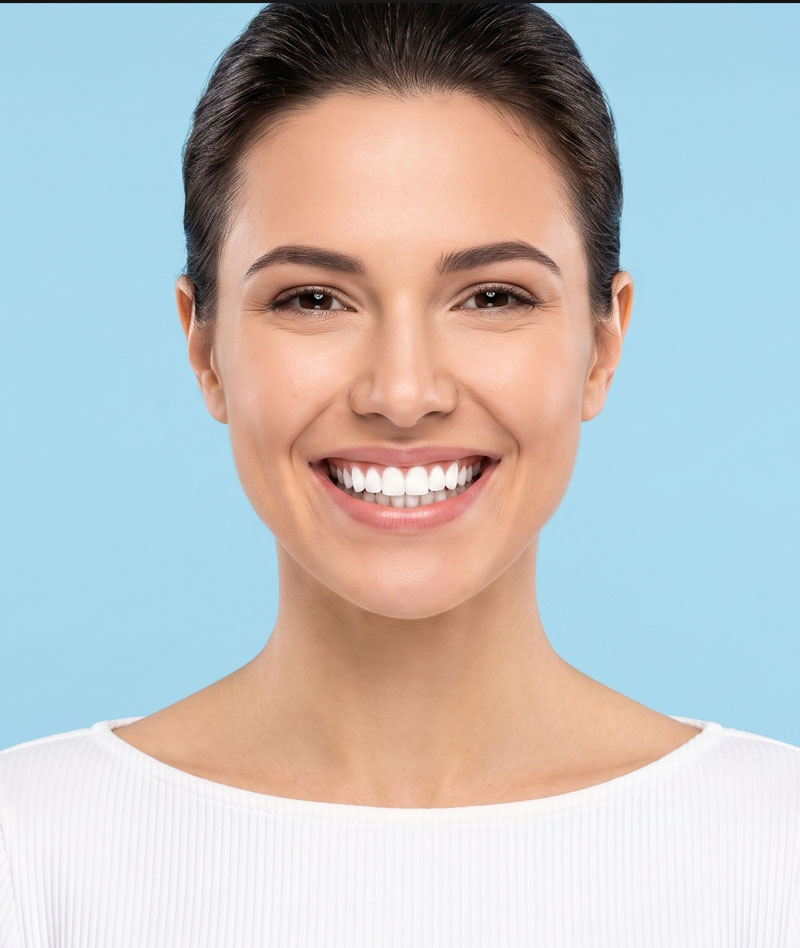
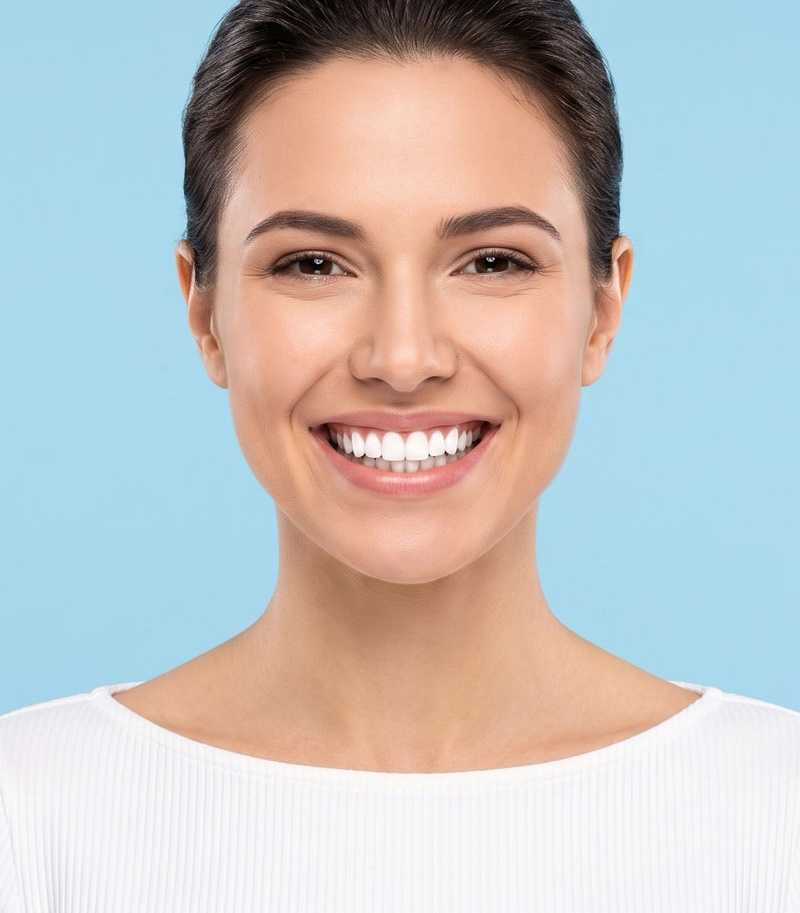
dds

diff --git a/main.js b/main.js
@@ -781,12 +781,20 @@ document.addEventListener('DOMContentLoaded', () => {
         });
         window.addEventListener('hashchange', handleServicesHash);
 
-        // Click listener on header SERVICES link to force grid view even if hash doesn't change
+        // Click listener on SERVICES & FIND YOUR PROCEDURE links to force grid view and smooth scroll
         const servicesNavLinks = document.querySelectorAll('a[href*="#services-section"]');
         servicesNavLinks.forEach(link => {
-            link.addEventListener('click', () => {
+            link.addEventListener('click', (e) => {
                 if (!isGridView && viewAllBtn) {
                     viewAllBtn.click();
+                }
+                const section = document.getElementById('services-section');
+                if (section && (window.location.pathname.endsWith('index.html') || window.location.pathname === '/' || window.location.pathname.endsWith('/'))) {
+                    e.preventDefault();
+                    section.scrollIntoView({ behavior: 'smooth' });
+                    if (window.location.hash !== '#services-section') {
+                        history.pushState(null, null, '#services-section');
+                    }
                 }
             });
         });

diff --git a/index.html b/index.html
@@ -238,7 +238,7 @@
                 <a href="https://wa.me/971509398270?text=Hi%20villannova" target="_blank" class="home-hero-btn-primary"
                     style="background-color: var(--gold); border-color: var(--gold); color: var(--text-dark);">FREE
                     CONSULTATION</a>
-                <a href="about.html" class="home-hero-btn-secondary"
+                <a href="index.html#services-section" class="home-hero-btn-secondary"
                     style="background-color: var(--white); border-color: var(--white); color: var(--navy);">FIND YOUR
                     PROCEDURE</a>
             </div>

diff --git a/Villanova_Gastric_Balloon_Comparison_Blog.md b/Villanova_Gastric_Balloon_Comparison_Blog.md
@@ -1,0 +1,128 @@
+<!-- Antigravity handoff: Use the patient article below as the blog content. The Publishing details section contains editor instructions and SEO metadata, not patient-facing article copy. Preserve source links and the clinical-review status. -->
+
+# Gastric Balloon vs Capsule Balloon in Dubai: Which Is Right for You?
+
+*Patient information blog | Draft for clinical review*
+
+Considering a gastric balloon in Dubai, but unsure whether to choose an endoscopic balloon or a swallowable capsule balloon? The main differences are how the balloon enters and leaves the stomach, how long it stays in place, and the care involved.
+
+A capsule balloon is itself a type of gastric balloon. In this guide, “gastric balloon” refers to the endoscopic option, while “capsule balloon” refers to the swallowable Allurion system. Neither is automatically better for everyone: the choice starts with a medical assessment.
+
+## What is a gastric balloon?
+
+A gastric balloon is a temporary device placed inside the stomach to help you feel full sooner and eat smaller portions. It does not involve removing part of the stomach. Treatment should be combined with dietary changes, activity and ongoing support. [[1]](https://www.mayoclinic.org/tests-procedures/intragastric-balloon/about/pac-20394435)
+
+## How does a capsule balloon work?
+
+The Allurion capsule contains a deflated balloon attached to a thin tube. A healthcare professional supervises placement and filling. Routine placement does not require endoscopy or anaesthesia. After approximately 16 weeks, the balloon is designed to empty and pass through the digestive tract. Occasionally, endoscopic or surgical intervention is necessary. [[2]](https://www.allurion.com/en-ae/allurion-gastric-balloon/how-it-works)
+
+## How does an endoscopic balloon work?
+
+A doctor uses a flexible camera passed through the mouth to place the balloon in the stomach, with sedation or anaesthesia. It is later deflated and removed endoscopically. Treatment duration depends on the device: some balloons are designed for six months, while certain other models permit longer placement, up to 12 months under their applicable instructions. [[3]](https://www.endura.com/us/en/home.html) [[4]](https://www.spatzmedical.com/gastric-balloon/)
+
+Ask which exact model is being offered and when it must be removed. A six-month balloon must not simply be left in for a year. [[3]](https://www.endura.com/us/en/home.html)
+
+## Gastric balloon vs capsule balloon: key differences
+
+| Feature | Endoscopic gastric balloon | Allurion capsule balloon |
+| --- | --- | --- |
+| Placement | Through the mouth using an endoscope | Swallowed as a capsule under clinical supervision |
+| Sedation / anaesthesia | Used for endoscopic procedures | Not needed for routine placement |
+| Time in the stomach | Device-specific; commonly 6 months, with some models up to 12 months | Approximately 16 weeks |
+| Removal | Planned endoscopic removal | Designed to empty and pass naturally; intervention may be needed |
+| Volume adjustment | Only with certain adjustable models | Not adjustable after filling |
+| Follow-up | Medical and nutritional support | Medical and nutritional support |
+
+Device features and treatment limits vary by model and local labelling. Confirm the proposed device with your doctor. [[2]](https://www.allurion.com/en-ae/allurion-gastric-balloon/how-it-works) [[3]](https://www.endura.com/us/en/home.html) [[4]](https://www.spatzmedical.com/gastric-balloon/)
+
+## Which option may be better for you?
+
+If avoiding a planned endoscopy is a priority, ask whether you are eligible for a capsule balloon. You still need medical screening, follow-up and access to care if symptoms develop.
+
+If a longer period with a balloon is being considered, discuss an endoscopic model with an appropriate treatment duration. Some models allow volume adjustment through an additional endoscopic procedure; this feature does not apply to every balloon. [[4]](https://www.spatzmedical.com/gastric-balloon/)
+
+Your doctor should assess your BMI, previous stomach or oesophageal surgery, medical history and ability to attend follow-up. Eligibility differs between devices. Your goals and preferences matter, but they cannot replace clinical suitability. [[1]](https://www.mayoclinic.org/tests-procedures/intragastric-balloon/about/pac-20394435) [[2]](https://www.allurion.com/en-ae/allurion-gastric-balloon/how-it-works)
+
+## What results should you expect?
+
+Weight loss varies. A balloon staying in place for longer does not, by itself, establish that it is the better choice for you. Ask for evidence about the proposed device and a realistic treatment goal. Continued dietary and activity support matters after the balloon leaves the stomach because weight regain can occur. [[1]](https://www.mayoclinic.org/tests-procedures/intragastric-balloon/about/pac-20394435)
+
+## What side effects should you expect?
+
+Nausea, vomiting and abdominal discomfort can occur after balloon placement. Some patients cannot tolerate treatment and need early removal. Your team should explain the initial diet, prescribed medicines and how to contact them if symptoms persist. [[2]](https://www.allurion.com/en-ae/allurion-gastric-balloon/how-it-works) [[3]](https://www.endura.com/us/en/home.html)
+
+Serious complications are possible, including obstruction, perforation, pancreatitis or unexpected balloon enlargement. Seek urgent medical assessment for severe or persistent abdominal pain, repeated vomiting, inability to keep fluids down or difficulty breathing. [[3]](https://www.endura.com/us/en/home.html) [[5]](https://www.fda.gov/medical-devices/products-and-medical-procedures/weight-loss-and-weight-management-devices)
+
+## Frequently asked questions
+
+### Is a capsule balloon the same as a gastric balloon?
+
+A capsule balloon is one type of gastric balloon. The Allurion system is swallowed, while an endoscopic balloon is placed with a flexible camera passed through the mouth. [[2]](https://www.allurion.com/en-ae/allurion-gastric-balloon/how-it-works) [[3]](https://www.endura.com/us/en/home.html)
+
+### Is a 12-month balloon better than a six-month balloon?
+
+There is no automatic winner. Compare the exact devices, their benefits and risks, the removal schedule and the support programme. Your doctor can explain why a particular duration is appropriate for your circumstances.
+
+### Can I have a gastric balloon during pregnancy?
+
+Weight-loss balloon treatment is not appropriate during pregnancy. Tell your doctor if you are pregnant, breastfeeding or planning pregnancy so they can advise on timing and alternatives. [[3]](https://www.endura.com/us/en/home.html)
+
+### What should I ask about gastric balloon cost in Dubai?
+
+Request a written quote that identifies the balloon model and states whether tests, placement, sedation, medicines, dietitian visits, follow-up and planned removal are included. Ask separately about charges for adjustments, early removal or complication care.
+
+## Discuss your options at Villanova in Dubai
+
+Villanova’s [Weight Loss & Dietetics service](https://www.villanovamedical.ae/weightloss.html) lists both endoscopic gastric balloon and swallowable capsule balloon treatments, alongside nutrition consultations. Contact the team to discuss availability and arrange an assessment. [[6]](https://www.villanovamedical.ae/weightloss.html)
+
+[Book a weight-loss consultation](https://www.villanovamedical.ae/contacts.html) | Call 04 458 0366
+
+This article provides general information. Treatment suitability and expected outcomes require an individual medical assessment.
+
+---
+
+# Publishing details
+
+*For the website editor — this page is not part of the patient article.*
+
+- SEO title: Gastric Balloon vs Capsule Balloon Dubai | Villanova
+
+- Meta description: Compare gastric balloon and capsule balloon options in Dubai. Learn about placement, duration, removal and suitability, then book a Villanova consultation.
+
+- Suggested URL path: /gastric-balloon-vs-capsule-balloon-dubai.html
+
+- Primary topic phrase: gastric balloon vs capsule balloon Dubai
+
+- Supporting phrases: gastric balloon Dubai; capsule balloon Dubai; swallowable gastric balloon; six-month vs 12-month gastric balloon
+
+- Category: Weight Loss & Dietetics
+
+- Blog-card excerpt: Endoscopic or swallowable? Compare gastric balloon placement, duration, removal and follow-up to prepare for your weight-loss consultation.
+
+- Clinical review: Have the treating clinician verify this draft against the devices currently offered and their UAE instructions. Add the reviewer’s actual name, credentials and review date only after review.
+
+- Availability note: The public site names Allurion in its capsule-balloon image text, but does not identify the endoscopic balloon brands. This draft makes no claim that Villanova stocks Orbera or Spatz.
+
+- Website finding: On 5 September 2026, blog.html displayed repeated cards and their Read More links returned to the blog listing. Give this article its own working page and link its card directly to it. The blog footer also showed clinic@example.com; replace it with the clinic’s verified email.
+
+- SEO implementation: Use the article title as one H1, sections as H2 and FAQs as H3. Keep the service and booking links. Add a descriptive page title and meta description. Use natural wording; search volume and keyword difficulty have not been measured.
+
+## Source links
+
+Sources checked 5 September 2026. Bracketed links in the article identify supporting references. Source 7 supports the editor’s SEO guidance.
+
+[1] [Mayo Clinic: Intragastric balloon](https://www.mayoclinic.org/tests-procedures/intragastric-balloon/about/pac-20394435)
+
+[2] [Allurion UAE: How the balloon works](https://www.allurion.com/en-ae/allurion-gastric-balloon/how-it-works)
+
+[3] [Boston Scientific Endura: Orbera information and safety](https://www.endura.com/us/en/home.html)
+
+[4] [Spatz Medical: Gastric balloon procedure and duration](https://www.spatzmedical.com/gastric-balloon/)
+
+[5] [FDA: Weight-loss and weight-management devices](https://www.fda.gov/medical-devices/products-and-medical-procedures/weight-loss-and-weight-management-devices)
+
+[6] [Villanova: Weight Loss & Dietetics](https://www.villanovamedical.ae/weightloss.html)
+
+[7] [Google Search Central: SEO Starter Guide](https://developers.google.com/search/docs/fundamentals/seo-starter-guide)
+
+[Website observation: Villanova blog listing](https://www.villanovamedical.ae/blog.html)
